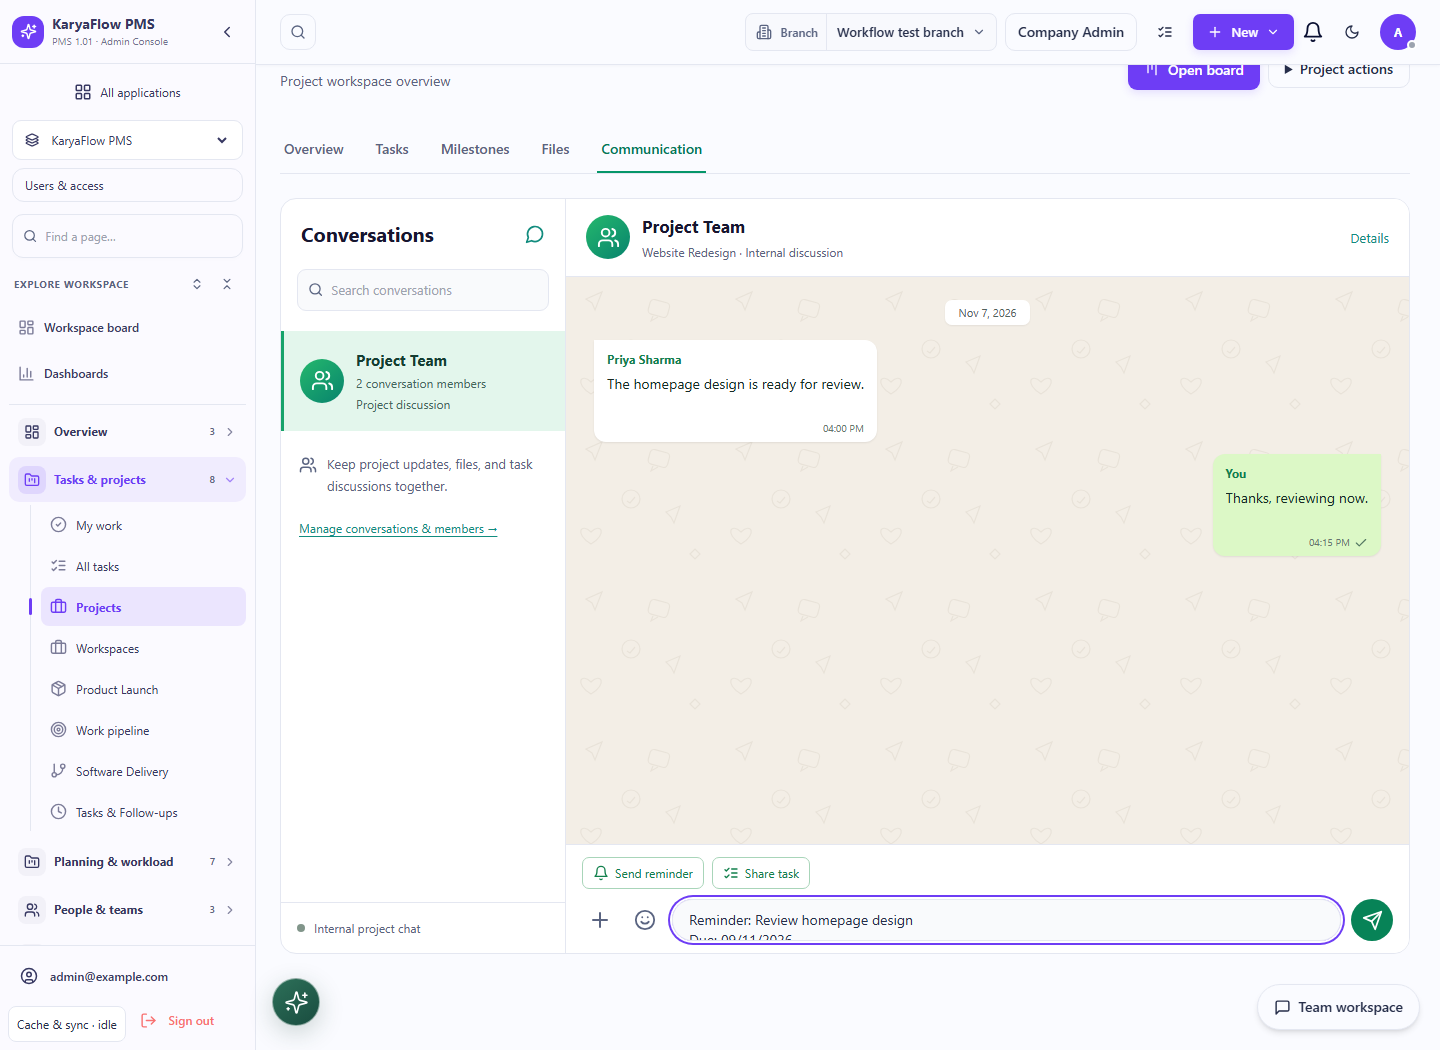
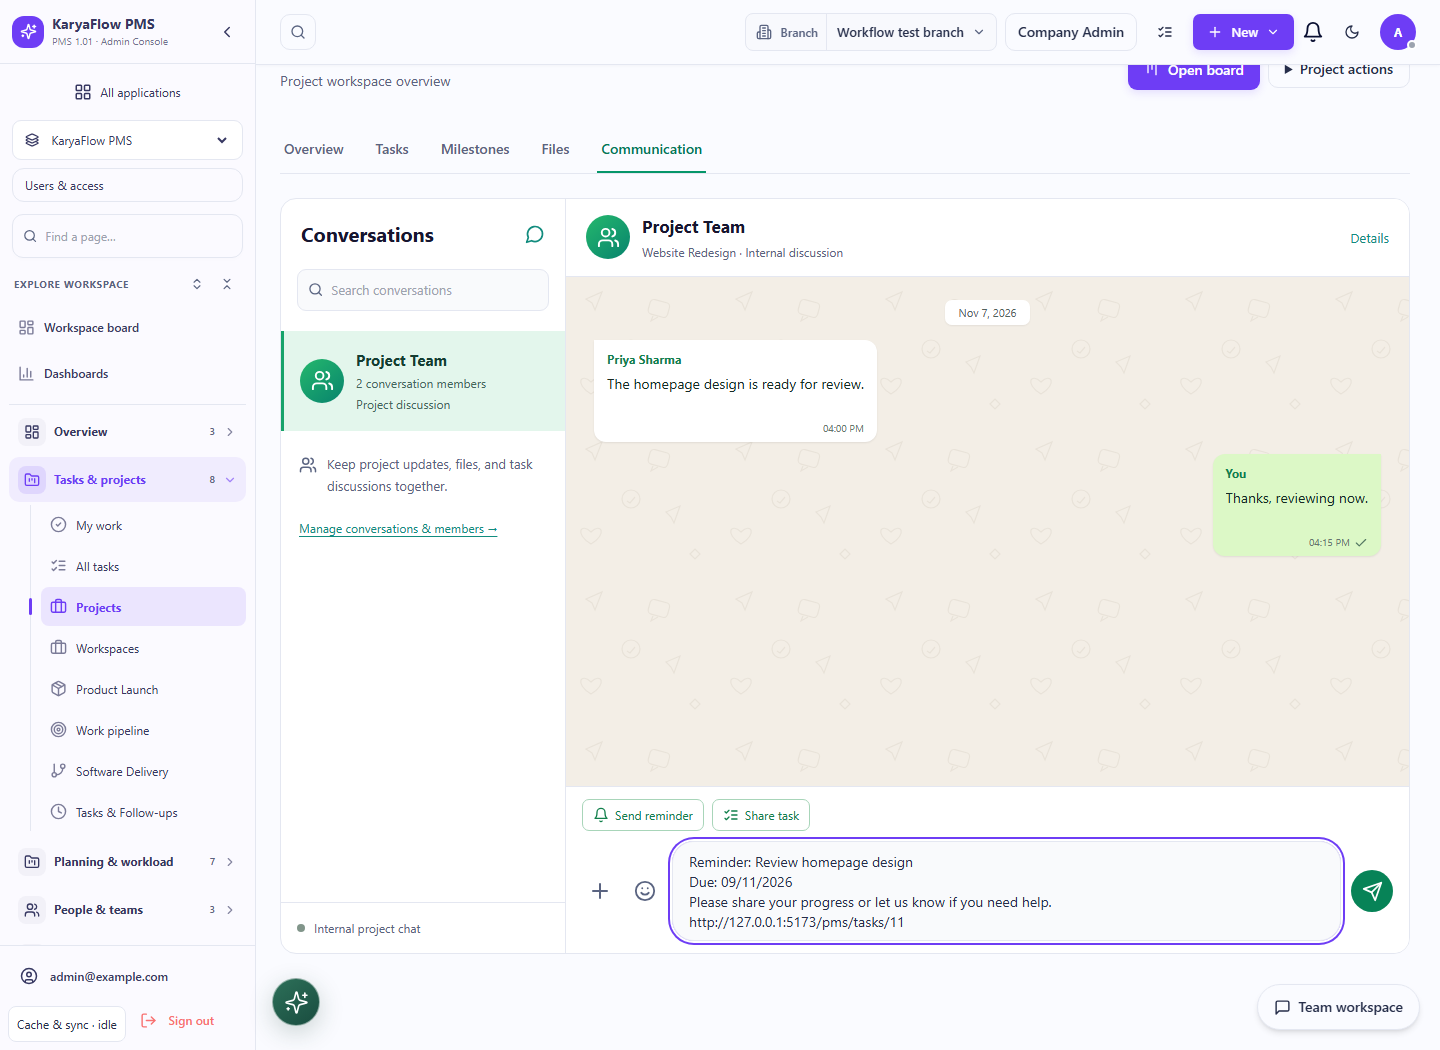
Update CRM task workspace and communication QA screenshots

Changed region(s): [[0.375, 0.7314, 1.0, 0.9143]]

diff --git a/frontend/src/apps/crm/CRMTasksWorkspace.tsx b/frontend/src/apps/crm/CRMTasksWorkspace.tsx
@@ -115,9 +115,9 @@ export default function CRMTasksWorkspace({ legacyKey, onNotes }: { legacyKey: s
     </div>
     <p className="text-sm text-muted-foreground" aria-live="polite">{loading ? "Updating tasks…" : `${total} matching tasks`} · Dates use {timezone}</p>
     <div className="flex items-center gap-2"><label className="flex flex-1 items-center gap-2 rounded-md border px-3 py-2"><Search size={16}/><input className="w-full bg-transparent outline-none" aria-label="Search CRM tasks" placeholder="Search tasks…" value={search} onChange={e => { setSearch(e.target.value); setPage(1); }}/></label><button className="rounded-md border p-2" aria-label="Refresh tasks" onClick={() => setRefresh(v => v + 1)}><RefreshCw size={18}/></button></div>
-    {initialLoading ? <p role="status">Loading tasks…</p> : <div className="space-y-2">{!tasks.length && !error && <p className="rounded-md border p-6">No tasks found. Create a task to get started.</p>}{tasks.map(task => <article key={task.id} className="flex flex-wrap items-center justify-between gap-3 rounded-md border bg-background p-4"><div className="min-w-0 flex-1"><button className="text-left font-semibold" onClick={() => setEditing(task)}>{task.title}</button><p className="line-clamp-2 text-sm text-muted-foreground">{richTextPlainText(task.description || "")}</p><p className="mt-2 text-sm">{task.status} · {task.priority}{task.dueDate ? ` · Due ${task.dueDate.slice(0, 10)}` : ""}{task.ownerId === user?.id ? " · Assigned to me" : ""}</p></div><div className="flex gap-2"><button type="button" className="rounded-md border px-3 py-2 text-sm" aria-label={`View task details ${task.title}`} onClick={()=>setDetailTask(task)}>Details</button><button className="inline-flex items-center gap-1 rounded-md border px-3 py-2" aria-label={`Edit task ${task.title}`} onClick={() => setEditing(task)}><Pencil size={14}/>Edit</button><button className="inline-flex items-center gap-1 rounded-md border px-3 py-2 text-red-600" aria-label={`Delete task ${task.title}`} onClick={() => setDeleting(task)}><Trash2 size={14}/>Delete</button></div></article>)}</div>}
+    {initialLoading ? <p role="status">Loading tasks…</p> : <div className="space-y-2">{!tasks.length && !error && <p className="rounded-md border p-6">No tasks found. Create a task to get started.</p>}{tasks.map(task => <article key={task.id} className="flex flex-wrap items-center justify-between gap-3 rounded-md border bg-background p-4"><div className="min-w-0 flex-1"><button className="text-left font-semibold" onClick={() => setEditing(task)}>{task.title}</button><p className="line-clamp-2 text-sm text-muted-foreground">{richTextPlainText(task.description || "")}</p><p className="mt-2 text-sm">{task.status} · {task.priority}{task.dueDate ? ` · Due ${task.dueDate.slice(0, 10)}` : ""}{task.ownerId === user?.id ? " · Assigned to me" : ""}</p></div><div className="flex gap-2">{!["done", "completed", "complete", "cancelled", "canceled"].includes(task.status.toLowerCase()) && <button type="button" disabled={busy || loading} className="rounded-md border px-3 py-2 text-sm" aria-label={`Complete task ${task.title}`} onClick={() => void complete(task)}>Complete</button>}<button type="button" className="rounded-md border px-3 py-2 text-sm" aria-label={`View task details ${task.title}`} onClick={()=>setDetailTask(task)}>Details</button><button className="inline-flex items-center gap-1 rounded-md border px-3 py-2" aria-label={`Edit task ${task.title}`} onClick={() => setEditing(task)}><Pencil size={14}/>Edit</button><button className="inline-flex items-center gap-1 rounded-md border px-3 py-2 text-red-600" aria-label={`Delete task ${task.title}`} onClick={() => setDeleting(task)}><Trash2 size={14}/>Delete</button></div></article>)}</div>}
     <div className="flex items-center justify-end gap-3"><button disabled={loading || page <= 1} onClick={() => setPage(v => v - 1)}>Previous</button><span>Page {page} of {Math.max(1, pages)}</span><button disabled={loading || page >= pages} onClick={() => setPage(v => v + 1)}>Next</button></div>
-    <Dialog open={!!detailTask} onOpenChange={open=>{if(!open)setDetailTask(null);}}><DialogContent className="max-h-[90vh] overflow-y-auto"><DialogTitle>{detailTask?.title||"Task details"}</DialogTitle>{detailTask&&<><p className="text-sm text-muted-foreground">{detailTask.status} · {detailTask.priority}</p><CrmFieldsReadOnly entity="tasks" recordId={detailTask.id}/></>}</DialogContent></Dialog>
+    <Dialog open={!!detailTask} onOpenChange={open=>{if(!open)setDetailTask(null);}}><DialogContent className="max-h-[90vh] overflow-y-auto"><DialogTitle>{detailTask?.title||"Task details"}</DialogTitle>{detailTask&&<><p className="text-sm text-muted-foreground">{detailTask.status} · {detailTask.priority}</p><p className="whitespace-pre-wrap text-sm">{richTextPlainText(detailTask.description || "No description")}</p><dl className="grid grid-cols-2 gap-2 text-sm"><dt>Due date</dt><dd>{detailTask.dueDate?.slice(0, 10) || "Not scheduled"}</dd><dt>Assignees</dt><dd>{detailTask.task_details?.assignees?.join(", ") || "Not specified"}</dd><dt>Related record</dt><dd>{detailTask.task_details?.relatedRecord || "Not linked"}</dd><dt>Acceptance criteria</dt><dd>{detailTask.task_details?.acceptance || "Not specified"}</dd><dt>Estimated hours</dt><dd>{detailTask.task_details?.estimatedHours || "Not estimated"}</dd></dl><CrmFieldsReadOnly entity="tasks" recordId={detailTask.id}/></>}</DialogContent></Dialog>
     <AlertDialog.Root open={!!deleting} onOpenChange={open => { if (!open && !busy) setDeleting(null); }}><AlertDialog.Portal><AlertDialog.Overlay className="fixed inset-0 z-50 bg-black/40"/><AlertDialog.Content className="fixed left-1/2 top-1/2 z-50 w-[calc(100%-2rem)] max-w-md -translate-x-1/2 -translate-y-1/2 space-y-4 rounded-lg bg-background p-6 shadow-lg"><AlertDialog.Title className="text-lg font-semibold">Delete task?</AlertDialog.Title><AlertDialog.Description>Delete “{deleting?.title}” from CRM?</AlertDialog.Description><div className="flex justify-end gap-3"><AlertDialog.Cancel asChild><button disabled={busy}>Cancel</button></AlertDialog.Cancel><AlertDialog.Action asChild><button className="rounded-md bg-red-600 px-3 py-2 text-white" disabled={busy} onClick={event => { event.preventDefault(); void remove(); }}>{busy ? "Deleting…" : "Delete task"}</button></AlertDialog.Action></div>{error && <p role="alert" className="text-red-600">{error}</p>}</AlertDialog.Content></AlertDialog.Portal></AlertDialog.Root>
   </section>;
 }
